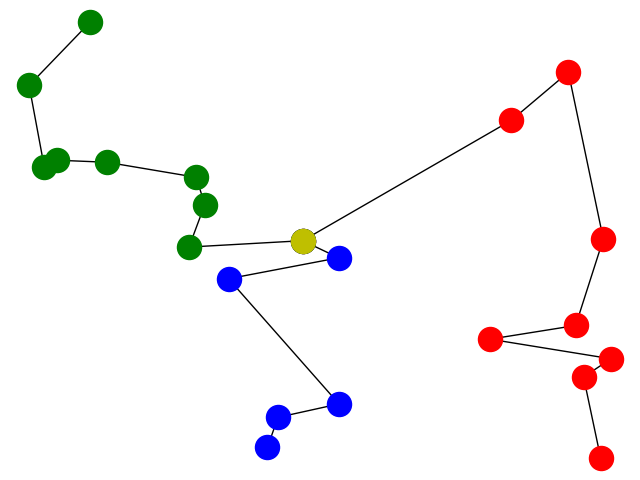
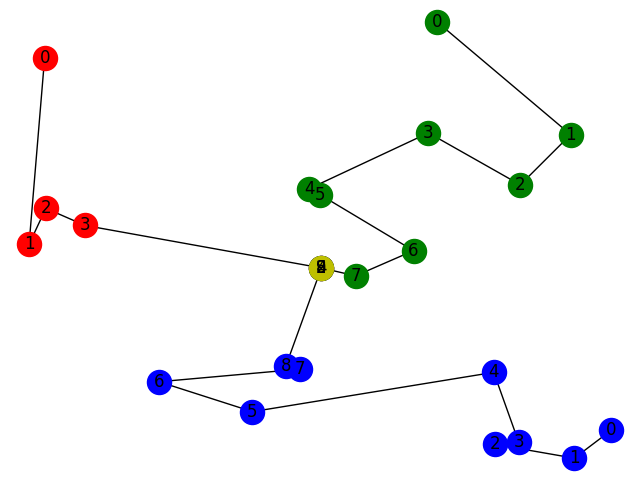
Change before GUI

diff --git a/main.py b/main.py
@@ -288,7 +288,7 @@ def calculate_time_cost_per_group(list_of_children, car, school_address):
     for i in range(length - 1):
         G.add_edge(i, i + 1)
     pos = nx.get_node_attributes(G, 'pos')
-    nx.draw(G, pos, node_color=gv.node_color[gv.group_number])
+    nx.draw(G, pos, node_color=gv.node_color[gv.group_number], with_labels=True)
     plt.savefig('G' + str(gv.group_number) + '.png')
     #Saving ths graph in global var
     gv.graphs_list.append(G)
@@ -338,7 +338,8 @@ temp_point = gv.list_of_school[0].address
 (x_1, y_1) = (float(x_1), float(y_1))
 
 gv.point_list.insert(0, (x_1, y_1))
-#Add school address to cluster image
+# START DRAWING CLUSTER IMAGE
+#Add school address to cluster image (point)
 plt.scatter(x_1, y_1, color='yellow', s=150)
 
 # Enter the children's address to the list
@@ -361,10 +362,12 @@ print_matrix_to_excel()
 (divide_list_of_children, means) = divide_list_of_children_by_k_means(3)
 
 #Plot cluster image
+# scatter each cluster's points on the plot
 plt.scatter(*zip(*gv.clusters[0]), color=gv.node_color[0])
 plt.scatter(*zip(*gv.clusters[1]), color=gv.node_color[1])
 plt.scatter(*zip(*gv.clusters[2]), color=gv.node_color[2])
 #Add means to the image
+# center points
 plt.scatter(*zip(*means), color='black', s=150)
 
 plt.savefig('cluster.png')
@@ -379,11 +382,11 @@ for i in range(length):
 #Plot graph which contains all the graphs of all the path
 for i in range(len(gv.graphs_list)):
     pos = nx.get_node_attributes(gv.graphs_list[i], 'pos')
-    nx.draw(gv.graphs_list[i], pos, node_color=gv.node_color[i])
+    nx.draw(gv.graphs_list[i], pos, node_color=gv.node_color[i], with_labels=True)
 G = nx.Graph()
 G.add_node(i, pos=(x_1, y_1))
 pos = nx.get_node_attributes(G, 'pos')
-nx.draw(G, pos, node_color="y")
+nx.draw(G, pos, node_color="y", with_labels=True)
 plt.savefig('GT.png')
 # To delete all the nodes and edges
 plt.clf()
